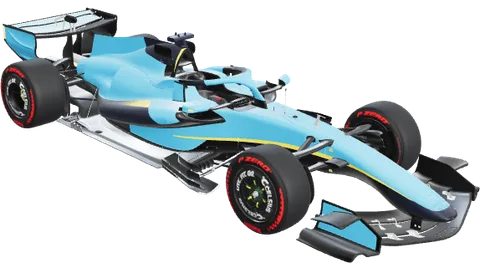
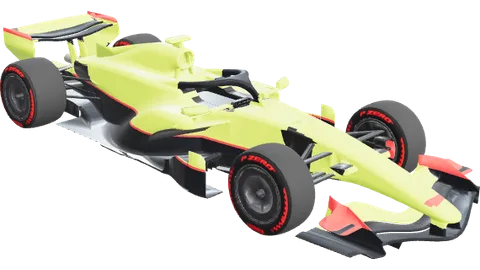
feat(liveries): four F1 liveries, the fourth Oracle Red Bull Racing with its pictures
The F1 liveries are now LibreCorsa #26 in the game's own volt, carbon and
crimson, two more of the game's own (Aurora #7, Verdant #11), and Max
Verstappen's Oracle Red Bull Racing #3. That one takes its navy, black and
yellow from an Assetto Corsa skin of the RB22 made for VRC's Formula Alpha
2026, and its pictures (the bulls, the Red Bull and ORACLE wordmarks, the
number) are cut out of that skin by scripts/cars/build_rb_livery.mjs and
placed on the sidepods, engine cover, nose and rear wing. The logos are
their owners' trademarks and the skin isn't licensed; CREDITS.md and the
Credits panel say so. A saved choice of a removed livery falls back to the
first one. The car's picture now shows the LibreCorsa livery.

diff --git a/src/lib/track-data.ts b/src/lib/track-data.ts
@@ -1,6 +1,7 @@
 import * as THREE from "three";
 import {
   LiveryConfig,
+  LiveryDecalSet,
   RunoffStyle,
   TrackSamplePoint,
   TurnMetadata,
@@ -114,51 +115,71 @@ export interface GridSlotDef {
 /** Grid slots of the active circuit */
 export const RWANDA_SPAWN_GRID: GridSlotDef[] = [...(rawTrackJson.spawnGrid as GridSlotDef[])];
 
+/**
+ * The Oracle Red Bull Racing livery's pictures: cut from an Assetto Corsa skin of the RB22 by
+ * `scripts/cars/build_rb_livery.mjs` (atlas rectangles from its `decals.json`), placed on the 2026 Prototype's body
+ */
+const ORACLE_RED_BULL_DECALS: LiveryDecalSet = {
+  atlas: "/cars/f12026/liveries/oracle_red_bull/decals.png",
+  decals: [
+    // ORACLE along each sidepod
+    { rect: [0, 0, 0.53516, 0.61523], face: "left", centre: [0.62, 0.5, -0.08], size: [0.62, 0.178], depth: 0.15 },
+    { rect: [0, 0, 0.53516, 0.61523], face: "right", centre: [-0.62, 0.5, -0.08], size: [0.62, 0.178], depth: 0.15 },
+    // A bull charging forward on each side of the engine cover, the Red Bull wordmark behind it
+    { rect: [0.66699, 0, 0.19092, 0.4375], face: "left", centre: [0.34, 0.61, -0.52], size: [0.38, 0.218], depth: 0.12 },
+    { rect: [0.66699, 0, 0.19092, 0.4375], face: "right", centre: [-0.34, 0.61, -0.52], size: [0.38, 0.218], depth: 0.12, flipX: true },
+    { rect: [0, 0.63086, 0.25342, 0.33008], face: "left", centre: [0.31, 0.62, -0.98], size: [0.5, 0.163], depth: 0.12 },
+    { rect: [0, 0.63086, 0.25342, 0.33008], face: "right", centre: [-0.31, 0.62, -0.98], size: [0.5, 0.163], depth: 0.12 },
+    // The nose: a bull on each side, the number on top
+    { rect: [0.66699, 0, 0.19092, 0.4375], face: "left", centre: [0.12, 0.44, 2.05], size: [0.3, 0.172], depth: 0.1 },
+    { rect: [0.66699, 0, 0.19092, 0.4375], face: "right", centre: [-0.12, 0.44, 2.05], size: [0.3, 0.172], depth: 0.1, flipX: true },
+    { rect: [0.53906, 0, 0.12402, 0.50195], face: "top", centre: [0, 0.56, 1.72], size: [0.17, 0.172], rotDeg: -90, depth: 0.1 },
+    // ORACLE across the rear wing's main plane
+    { rect: [0, 0, 0.53516, 0.61523], face: "top", centre: [0, 0.8, -2.18], size: [0.7, 0.201], depth: 0.07 },
+  ],
+};
+
+/**
+ * The F1 liveries: the first in LibreCorsa's own colours, two more of the game's own, and the Oracle Red Bull Racing
+ * one with its pictures (the 2026 Prototype's body paints them; other bodies take the colours only)
+ */
 export const LIVERIES: LiveryConfig[] = [
   {
-    id: "rwanda_2026",
-    name: "Visit Rwanda #26",
-    team: "Kigali Apex Racing",
-    primary: "#00a1de",
-    secondary: "#0f172a",
-    accent: "#fad201",
+    id: "librecorsa",
+    name: "LibreCorsa #26",
+    team: "LibreCorsa",
+    primary: "#ccff00",
+    secondary: "#11131a",
+    accent: "#ff2a3c",
     number: "26",
   },
   {
-    id: "scuderia_red",
-    name: "Scuderia Corsa #16",
-    team: "Maranello Works",
-    primary: "#dc2626",
-    secondary: "#18181b",
-    accent: "#facc15",
-    number: "16",
+    id: "aurora",
+    name: "Aurora #7",
+    team: "Aurora GP",
+    primary: "#eef1f5",
+    secondary: "#0b3d4a",
+    accent: "#ff6a1a",
+    number: "7",
   },
   {
-    id: "silver_arrow",
-    name: "Silver Star #44",
-    team: "Brackley Aero",
-    primary: "#e2e8f0",
-    secondary: "#0f172a",
-    accent: "#06b6d4",
-    number: "44",
+    id: "verdant",
+    name: "Verdant #11",
+    team: "Greenline Racing",
+    primary: "#0d5c46",
+    secondary: "#0a0f0d",
+    accent: "#e8c35a",
+    number: "11",
   },
   {
-    id: "papaya_apex",
-    name: "Papaya Velocity #4",
-    team: "Woking Motorsport",
-    primary: "#f97316",
-    secondary: "#1e293b",
-    accent: "#38bdf8",
-    number: "4",
-  },
-  {
-    id: "carbon_stealth",
-    name: "Stealth Bull #1",
-    team: "Milton Keynes Racing",
-    primary: "#1e1b4b",
-    secondary: "#090d16",
-    accent: "#ef4444",
-    number: "1",
+    id: "oracle_red_bull",
+    name: "Max Verstappen #3",
+    team: "Oracle Red Bull Racing",
+    primary: "#15214a",
+    secondary: "#0e0f12",
+    accent: "#f2b705",
+    number: "3",
+    decals: ORACLE_RED_BULL_DECALS,
   },
 ];
 

diff --git a/src/lib/hosted-content.ts b/src/lib/hosted-content.ts
@@ -1,6 +1,6 @@
 /**
  * What a copy of the game can list. The repository carries only RISE Motordrome and the 2026 prototype car (its
- * body and sound in `public/cars/f12026/`); every other car and circuit lives on librecorsa.org
+ * body, liveries and sound in `public/cars/f12026/`); every other car and circuit lives on librecorsa.org
  * only, in the librecorsa-assets R2 bucket, which `cloudflare/worker.js` serves from the same paths. So a clone lists
  * just what it has, and the deploy (`.github/workflows/deploy-pages.yml`) sets `NEXT_PUBLIC_HOSTED_CONTENT=1` to list
  * everything. Set it in `.env.local` too if you have the hosted files in `public/` (they are gitignored).

diff --git a/src/types/f1.ts b/src/types/f1.ts
@@ -51,12 +51,7 @@ export type CameraMode =
 /** Dry slicks, then the treaded rain tyres: intermediate (damp / light rain) and full wet (standing water) */
 export type TireCompound = "soft" | "medium" | "hard" | "intermediate" | "wet";
 
-export type LiveryId =
-  | "rwanda_2026"
-  | "scuderia_red"
-  | "silver_arrow"
-  | "papaya_apex"
-  | "carbon_stealth";
+export type LiveryId = "librecorsa" | "aurora" | "verdant" | "oracle_red_bull";
 
 export interface LiveryConfig {
   id: LiveryId;

diff --git a/src/components/menu/TitleMenu.tsx b/src/components/menu/TitleMenu.tsx
@@ -154,6 +154,8 @@ const Credits: React.FC = () => (
           <a href="http://creativecommons.org/licenses/by/4.0/" target="_blank" rel="noreferrer" className={linkClass}>
             CC BY 4.0
           </a>
+          . Its Oracle Red Bull Racing livery uses pictures from an Assetto Corsa skin made for VRC&apos;s Formula Alpha
+          2026; the logos are their owners&apos; trademarks
           <br />
           Mercedes-AMG GT3 Evo: &ldquo;Mercedes-AMG GT3&rdquo; (
           <a

diff --git a/CREDITS.md b/CREDITS.md
@@ -7,11 +7,12 @@ LibreCorsa is an independent, non-commercial, open-source web simulator built wi
 ## 1. Licensing
 
 * **Source Code (`src/`, `scripts/`)**: Licensed under the [MIT License](LICENSE). The MIT licence covers the code only: the circuit that `scripts/rwanda-official/` builds has its own licence (see *RISE Motordrome*).
-* **3D Models & Audio Assets (`public/`)**: Each asset keeps its own licence, listed below. Several are **non-commercial only**, so `public/` as a whole may not be used commercially. This repository carries only RISE Motordrome and the 2026 prototype's model and sound (`public/cars/f12026/`), plus the AM26 model its steering wheel comes from (`public/amr26/`); every other asset below is served on librecorsa.org for playing there and is not in the repository:
+* **3D Models & Audio Assets (`public/`)**: Each asset keeps its own licence, listed below. Several are **non-commercial only**, so `public/` as a whole may not be used commercially. This repository carries only RISE Motordrome and the 2026 prototype's model, liveries and sound (`public/cars/f12026/`), plus the AM26 model its steering wheel comes from (`public/amr26/`); every other asset below is served on librecorsa.org for playing there and is not in the repository:
   | Asset | Licence |
   | :--- | :--- |
   | RISE Motordrome (`public/tracks/rwanda_official/`, `public/tracks/rwanda_official_short/`, and its source in `scripts/rwanda-official/`) | The project's own, CC BY-NC-SA 4.0 (non-commercial, share-alike); its two tree models CC BY 4.0 |
   | F1 2026 model (Qvist_designs) and the AM26 steering wheel (DeX) | CC BY 4.0 |
+  | Oracle Red Bull Racing livery pictures (`public/cars/f12026/liveries/oracle_red_bull/`) | Cut from an Assetto Corsa skin; the logos are their owners' trademarks; **not licensed** (see *Oracle Red Bull Racing livery*) |
   | Chang, Okayama, Spielberg (Red Bull Ring), Automotodrom Grobnik, Oschersleben and Monaco circuits | By **Mitja Bonca** (Used with permission) |
   | Istanbul Park circuit (`public/tracks/istanbul_park/`) | Intercity İstanbul Park by **[Enver Bozkaya](https://www.enverbozkaya.com/) (SRTR)** (Used with the author's permission; the mod's other contributors are listed under *Istanbul Park*) |
   | 2026 Pirelli tyre sidewall texture (`public/cars/shared/tyres/`) and F1 rain-tyre temperature / wear curves | By **Cxjovich** ([https://www.overtake.gg/members/cxjovich.4261212/](https://www.overtake.gg/members/cxjovich.4261212/)), CC BY-NC-SA 4.0 (used with permission; non-commercial, share-alike) |
@@ -32,6 +33,7 @@ LibreCorsa is an independent, non-commercial, open-source web simulator built wi
 
 * **F1 2026 3D Car Model (`public/cars/f12026/model/f12026.glb`)**: `"F1 2026 concept (polygon model)"` ([https://sketchfab.com/3d-models/f1-2026-concept-polygon-model-ea3bde709b1e4dc9b0ec8557d106ed42](https://sketchfab.com/3d-models/f1-2026-concept-polygon-model-ea3bde709b1e4dc9b0ec8557d106ed42)) by **[Qvist_designs](https://qvistdesigns.framer.website/)** is licensed under [Creative Commons Attribution 4.0 (CC BY 4.0)](http://creativecommons.org/licenses/by/4.0/). Changes for the simulator (`scripts/cars/port_qvist_f1.mjs`): reoriented to metres, simplified from 1.16M to about 165k triangles, the wheels split into rim and tyre, the front and rear wing flaps cut free and capped so they move with the active aero, and the grey model painted in livery zones. Its steering wheel, shift lights and display come from the AM26 model below.
 * **AM26 3D Car Model (`public/amr26/model/amr26.glb`)**: Formula car model ([https://skfb.ly/pKNCK](https://skfb.ly/pKNCK)) by **DeX** is licensed under [Creative Commons Attribution 4.0 (CC BY 4.0)](http://creativecommons.org/licenses/by/4.0/). It was the 2026 Prototype's body until 12 Nov 2026; the car now takes only its steering wheel from it.
+* **Oracle Red Bull Racing livery (`public/cars/f12026/liveries/oracle_red_bull/`)**: the bulls, wordmarks and number are cut from an Assetto Corsa skin of the RB22 (`"Max Verstappen 3"`) made for VRC's *Formula Alpha 2026* (car by **mati.sala90** and **schmawlik**) by `scripts/cars/build_rb_livery.mjs`; the skin doesn't name its painter. Red Bull, Oracle and the other logos are their owners' trademarks. **Not licensed**; see *Rights holders*.
 * **Mercedes-AMG GT3 Evo 3D Car Model (`amg-gt3`, `public/cars/amg-gt3-evo/model/amg-gt3-evo.glb`)**: `"Mercedes-AMG GT3"` ([https://sketchfab.com/3d-models/mercedes-amg-gt3-wwwvecarzcom-6a3f7e3455064721b74b7f0b66427a07](https://sketchfab.com/3d-models/mercedes-amg-gt3-wwwvecarzcom-6a3f7e3455064721b74b7f0b66427a07)) by **[Vecarz](https://vecarz.com/)** (`@heynic`), in the Red Bull Racing livery of toddeppe's `"Mercedes-Benz AMG GT3 Red Bull"` ([https://sketchfab.com/3d-models/mercedes-benz-amg-gt3-red-bull-83c34fe5c0d64d838bc3c5e0f2d7f56a](https://sketchfab.com/3d-models/mercedes-benz-amg-gt3-red-bull-83c34fe5c0d64d838bc3c5e0f2d7f56a)) and VTX's (`@VTX_car`) `"Mercedes-AMG GT3 Red Bull Racing"` ([https://sketchfab.com/3d-models/mercedes-amg-gt3-red-bull-racing-035f061cb6624effbc483d5f9b5ecaba](https://sketchfab.com/3d-models/mercedes-amg-gt3-red-bull-racing-035f061cb6624effbc483d5f9b5ecaba)), which this file is ported from. Vecarz's model is licensed under [Creative Commons Attribution-NonCommercial-ShareAlike 4.0 (CC BY-NC-SA 4.0)](http://creativecommons.org/licenses/by-nc-sa/4.0/). Changes for the simulator (`scripts/cars/port_sketchfab_gt3.py`): transforms baked and reoriented, wheels (rim and tyre) and steering wheel separated into rig nodes, and textures downscaled.
 * **BMW M4 GT3 Evo 3D Car Model (`public/cars/bmw-m4-gt3/model/bmw-m4-gt3.glb`)**: `"2025 BMW M4 GT3 EVO G82"` ([https://sketchfab.com/3d-models/2025-bmw-m4-gt3-evo-g82-113f83dd87064697a5ec2511d280b9d5](https://sketchfab.com/3d-models/2025-bmw-m4-gt3-evo-g82-113f83dd87064697a5ec2511d280b9d5)) by **Ddiaz Design** (`@ddiaz-design`) is licensed under [Creative Commons Attribution-NonCommercial-ShareAlike 4.0 (CC BY-NC-SA 4.0)](http://creativecommons.org/licenses/by-nc-sa/4.0/). Changes for the simulator (`scripts/cars/port_sketchfab_gt3.py`): transforms baked, wheels (rim and tyre) and steering wheel separated into rig nodes, transmissive glass replaced by alpha blending, and textures downscaled.
 

diff --git a/scripts/cars/README.md b/scripts/cars/README.md
@@ -58,6 +58,11 @@ node --max-old-space-size=12288 scripts/cars/port_qvist_f1.mjs path/to/f1_2026_c
 - **From the AM26** (`public/amr26/model/amr26.glb`, `--steer-from`): `STEER_BASE` (steering wheel, shift lights,
   display) and the root's `cameras`. The root's `helmet.pos` places the game's own helmet.
 
+`build_rb_livery.mjs <skin folder>` cuts the Oracle Red Bull Racing livery's pictures out of an Assetto Corsa skin's
+`car-body.dds` (VRC Formula Alpha 2026, RB22), keys off its navy and packs them into
+`public/cars/f12026/liveries/oracle_red_bull/decals.png`; `decals.json` gives the rectangles the livery's placements in
+`src/lib/track-data.ts` use (`render/livery-decals.ts` projects them).
+
 # Assetto Corsa Car Porter (`port_ac_car.py`)
 
 `scripts/cars/port_ac_car.py` converts an Assetto Corsa car (its main `.kn5` plus one skin) into the same `CAR` / `BODY` / `STEER` / `WHEEL_xx` layout. Each car has a preset in `PRESETS`: its material table, the nodes and materials it leaves out, the skin files that override the kn5's, how its tyre meshes and spinning parts are named, and its windscreen. There are two, the Suzuki Liana 1.6 (`liana`) and the MTRacing 496R (`mtr-496r`); the kn5 reader, the hierarchy split and the paint bake are generic AC.
